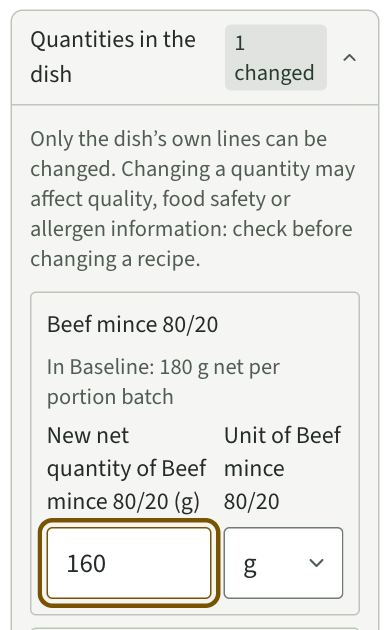
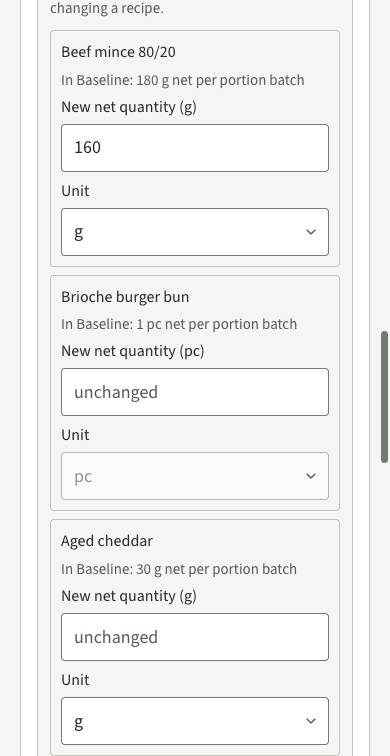
Polish simulator quantity fields

diff --git a/src/ui/help/content.ru.ts b/src/ui/help/content.ru.ts
@@ -647,7 +647,7 @@ export const contentRu: HelpDocument = {
             { text: ['Снова нажмите ', b('Add scenario'), '.'], result: ['Появится второй сценарий, B. Он выбран, его карточка слева. Под ', b('Choose a scenario to compare'), ' можно переключаться между A и B.'] },
             { text: ['В карточке сценария B нажмите полосу ', b('Quantities in the dish'), ' (Количества в блюде).'], result: 'Полоса раскроется и покажет поле для каждой строки блюда с ингредиентом. Строку-заготовку здесь менять нельзя.' },
             {
-              text: ['Найдите ', b('Beef mince 80/20'), ' и напечатайте 160 в поле ', b('New net quantity of Beef mince 80/20 (g)'), '. Единица остаётся g.'],
+              text: ['Найдите ', b('Beef mince 80/20'), ' и напечатайте 160 в поле ', b('New net quantity (g)'), '. В списке ', b('Unit'), ' оставьте g.'],
               result: 'Поля, которые вы оставили пустыми, показывают «unchanged» (без изменений). На полосе появится метка «1 changed». Вклад станет €7.49 (+€0.34).',
               image: img('simulator-qty', 'Раскрытая полоса Quantities in the dish: в поле New net quantity для Beef mince 80/20 напечатано 160.', 'Меняются только те поля, которые вы заполнили.'),
             },
@@ -730,7 +730,7 @@ export const contentRu: HelpDocument = {
             { message: 'Baseline changed since this scenario was saved', meaning: ['Цены или рецепт изменились после сохранения. Нажмите ', b('Update baseline'), ', чтобы посчитать по сегодняшним данным.'] },
             { message: 'Baseline updated. Some changes no longer apply and were removed (save to keep this):', meaning: ['После обновления одно из ваших изменений перестало подходить (например, ингредиент убрали из рецепта). Нажмите ', b('OK'), ', проверьте цифры и сохраните, если согласны.'] },
             { message: 'Not enough data to compare monthly results.', meaning: ['Таблице нужно хотя бы два столбца с месячной суммой. Напечатайте число в ', b('Expected sales per month (your estimate)'), ' и проверьте, что нет недостающих цен, либо нажмите ', b('Update baseline'), ' у сценария с пометкой «older prices».'] },
-            { message: 'Enter your estimate (0 if you do not want a monthly figure).', meaning: ['У блюда есть продажи в месяц, поэтому поле нельзя оставить пустым. Напечатайте число или 0. Обратите внимание: 0 означает, что вы ожидаете нулевые продажи. Месячные суммы станут нулевыми, а не исчезнут.'] },
+            { message: 'Enter your estimate. Enter 0 for no sales.', meaning: ['У блюда есть продажи в месяц, поэтому поле нельзя оставить пустым. Напечатайте число или 0. Обратите внимание: 0 означает, что вы ожидаете нулевые продажи. Месячные суммы станут нулевыми, а не исчезнут.'] },
             { message: 'Enter a whole number of 0 or more, for example 300.', meaning: ['В поле продаж в месяц напечатайте целое число, например 300, без слов и единиц.'] },
           ],
         },

diff --git a/src/ui/help/content.nl.ts b/src/ui/help/content.nl.ts
@@ -644,7 +644,7 @@ export const contentNl: HelpDocument = {
             { text: ['Klik nog eens op ', b('Scenario toevoegen'), '.'], result: ['Een tweede scenario, B, verschijnt. Het is gekozen en de kaart ervan staat links. Onder ', b('Kies een scenario om te vergelijken'), ' wissel je tussen A en B.'] },
             { text: ['Klik in de kaart van Scenario B op de balk ', b('Hoeveelheden in het gerecht'), '.'], result: 'De balk opent en toont een veld voor elke ingrediëntregel van het gerecht. Een regel die een basisrecept is, kun je hier niet wijzigen.' },
             {
-              text: ['Zoek ', b('Rundergehakt 80/20'), ' en typ 160 in ', b('Nieuwe nettohoeveelheid van Rundergehakt 80/20 (g)'), '. De eenheid blijft g.'],
+              text: ['Zoek ', b('Rundergehakt 80/20'), ' en typ 160 in ', b('Nieuwe nettohoeveelheid (g)'), '. Laat ', b('Eenheid'), ' op g staan.'],
               result: 'Velden die je leeg laat, zeggen “ongewijzigd”. Op de balk verschijnt een klein label “1 gewijzigd”. De bijdrage wordt € 7,49 (+€ 0,34).',
               image: img('simulator-qty', 'De geopende balk Hoeveelheden in het gerecht met het veld Nieuwe nettohoeveelheid ingevuld met 160 voor Rundergehakt 80/20.', 'Alleen de velden die je invult, worden gewijzigd.'),
             },
@@ -727,7 +727,7 @@ export const contentNl: HelpDocument = {
             { message: 'De huidige situatie is veranderd sinds je dit scenario opsloeg', meaning: ['Prijzen of het recept zijn veranderd nadat je opsloeg. Klik op ', b('Huidige situatie bijwerken'), ' om met de gegevens van vandaag te rekenen.'] },
             { message: 'Huidige situatie bijgewerkt. Sommige wijzigingen gelden niet meer en zijn verwijderd (sla op om dit te bewaren):', meaning: ['Na de update paste een van je wijzigingen niet meer (bijvoorbeeld omdat een ingrediënt uit het recept is gehaald). Klik op ', b('OK'), ', controleer de getallen en sla op als je het ermee eens bent.'] },
             { message: 'Niet genoeg gegevens om maandresultaten te vergelijken.', meaning: ['De tabel heeft minstens twee kolommen met een maandbedrag nodig. Typ een getal in ', b('Verkocht per maand (jouw schatting)'), ' en zorg dat er geen prijs ontbreekt, of druk op ', b('Huidige situatie bijwerken'), ' bij een scenario met “oudere prijzen”.'] },
-            { message: 'Vul je schatting in (0 als je geen maandbedrag wilt).', meaning: ['Het gerecht heeft een aantal per maand, dus het veld mag niet leeg blijven. Typ een getal, of 0. Let op: 0 betekent dat je geen verkopen verwacht. De maandbedragen worden dan nul; ze verdwijnen niet.'] },
+            { message: 'Vul je schatting in. Vul 0 in als je geen verkopen verwacht.', meaning: ['Het gerecht heeft een aantal per maand, dus het veld mag niet leeg blijven. Typ een getal, of 0. Let op: 0 betekent dat je geen verkopen verwacht. De maandbedragen worden dan nul; ze verdwijnen niet.'] },
             { message: 'Vul een geheel getal van 0 of meer in, bijvoorbeeld 300.', meaning: ['Typ in het veld voor de verkoop per maand een heel getal zoals 300, zonder woorden of eenheid.'] },
           ],
         },

diff --git a/src/ui/simulator/ScenarioCard.tsx b/src/ui/simulator/ScenarioCard.tsx
@@ -12,7 +12,7 @@ import {
   dishLines, ingredientInfos, type IngredientInfo, type LineInfo, type Run, type ScenarioDelta,
 } from '@/ui/domain/simulator';
 import type { SimulateResult } from '@/ui/domain/types';
-import { centsToInput, formatQuantity, parseMoneyField, unitsFor, type EnteredUnit } from '@/ui/forms/numbers';
+import { centsToInput, formatQuantity, localizedUnit, parseMoneyField, unitsFor, type EnteredUnit } from '@/ui/forms/numbers';
 import { useFocusFirstInvalid } from '@/ui/hooks/useFocusFirstInvalid';
 import { Delta } from './format';
 import {
@@ -111,7 +111,7 @@ function LineRow({ line, draft, error, onChange }: {
   line: LineInfo; draft: { text: string; unit: EnteredUnit } | undefined; error: FormErrorKey | undefined;
   onChange: (next: { text: string; unit: EnteredUnit }) => void;
 }) {
-  const { t } = useLocale();
+  const { t, locale } = useLocale();
   if (line.refKind === 'prep') {
     return (
       <li className="rounded-md border border-dashed p-2.5 text-xs text-muted-foreground">
@@ -122,25 +122,28 @@ function LineRow({ line, draft, error, onChange }: {
   }
   const units = unitsFor(line.unit);
   const value = draft ?? { text: '', unit: units[0] ?? 'g' };
+  const baseUnitLabel = localizedUnit(line.unit, locale);
   return (
     <li>
       <div role="group" aria-label={t('simulator.quantityOf', { name: line.name })} className="space-y-1.5 rounded-md border p-2.5">
         <p className="text-sm font-medium">{line.name}</p>
         <p className="text-xs text-muted-foreground">{t('simulator.inBaseline', { quantity: formatQuantity(line.netQtyMilli, line.unit) })}</p>
-        <div className="grid grid-cols-[minmax(0,1fr)_5rem] items-start gap-2">
-          <QuantityField label={t('simulator.newQuantity', { name: line.name })} unit={value.unit}
+        <div className="grid grid-cols-1 items-start gap-2">
+          <QuantityField label={t('simulator.newQuantity')} unit={baseUnitLabel}
+            aria-label={t('simulator.newQuantityOf', { name: line.name, unit: baseUnitLabel })}
             error={error ? t(error) : undefined} autoComplete="off" value={value.text}
             placeholder={t('simulator.unchanged')} onValueChange={text => onChange({ ...value, text })}
           />
-          <FormField label={t('simulator.unit', { name: line.name })}>
+          <FormField label={t('simulator.unit')}>
             {(control) => (
               <Select
                 {...control}
+                aria-label={t('simulator.unitOf', { name: line.name })}
                 value={value.unit}
                 disabled={units.length < 2}
                 onChange={(event) => onChange({ ...value, unit: event.target.value as EnteredUnit })}
               >
-                {units.map((unit) => <option key={unit} value={unit}>{unit}</option>)}
+                {units.map((unit) => <option key={unit} value={unit}>{localizedUnit(unit, locale)}</option>)}
               </Select>
             )}
           </FormField>

diff --git a/src/ui/help/content.en.ts b/src/ui/help/content.en.ts
@@ -644,7 +644,7 @@ export const contentEn: HelpDocument = {
             { text: ['Click ', b('Add scenario'), ' again.'], result: ['A second scenario, B, appears. It is chosen, and its card is on the left. Under ', b('Choose a scenario to compare'), ' you can switch between A and B.'] },
             { text: ['In the card of Scenario B click the bar ', b('Quantities in the dish'), '.'], result: 'The bar opens and shows a field for every ingredient line of the dish. A line that is a prep cannot be changed here.' },
             {
-              text: ['Find ', b('Beef mince 80/20'), ' and type 160 in ', b('New net quantity of Beef mince 80/20 (g)'), '. The unit stays g.'],
+              text: ['Find ', b('Beef mince 80/20'), ' and type 160 in ', b('New net quantity (g)'), '. Leave ', b('Unit'), ' set to g.'],
               result: 'Fields you leave empty say “unchanged”. A small mark “1 changed” appears on the bar. The contribution becomes €7.49 (+€0.34).',
               image: img('simulator-qty', 'The opened bar Quantities in the dish with the field New net quantity filled with 160 for Beef mince 80/20.', 'Only the fields you fill in are changed.'),
             },
@@ -727,7 +727,7 @@ export const contentEn: HelpDocument = {
             { message: 'Baseline changed since this scenario was saved', meaning: ['Prices or the recipe changed after you saved it. Click ', b('Update baseline'), ' to calculate on today’s data.'] },
             { message: 'Baseline updated. Some changes no longer apply and were removed (save to keep this):', meaning: ['After the update, one of your changes did not fit any more (for example an ingredient was removed from the recipe). Click ', b('OK'), ', check the numbers and save if you agree.'] },
             { message: 'Not enough data to compare monthly results.', meaning: ['The table needs at least two columns with a monthly figure. Type a number in ', b('Expected sales per month (your estimate)'), ' and make sure no price is missing, or press ', b('Update baseline'), ' on a scenario marked “older prices”.'] },
-            { message: 'Enter your estimate (0 if you do not want a monthly figure).', meaning: ['The dish has a monthly volume, so the field cannot be left empty. Type a number, or 0. Note: 0 means you expect no sales. Monthly amounts become zero; they are not hidden.'] },
+            { message: 'Enter your estimate. Enter 0 for no sales.', meaning: ['The dish has a monthly volume, so the field cannot be left empty. Type a number, or 0. Note: 0 means you expect no sales. Monthly amounts become zero; they are not hidden.'] },
             { message: 'Enter a whole number of 0 or more, for example 300.', meaning: ['In the field for sales per month, type a whole number such as 300, without words or a unit.'] },
           ],
         },

diff --git a/test/ui/simulator.test.tsx b/test/ui/simulator.test.tsx
@@ -121,6 +121,15 @@ describe('Baseline', () => {
     await typeInto(u, volume, '');
     expect(screen.getByText(/Enter your estimate/)).toBeTruthy();
   });
+
+  it('uses the revised estimate hint in English and Dutch', async () => {
+    const u = user();
+    await open(`#/simulator/${BURGER}`);
+    await typeInto(u, screen.getByLabelText('Expected sales per month (your estimate)'), '');
+    expect(screen.getByText('Enter your estimate. Enter 0 for no sales.')).toBeTruthy();
+    await u.click(screen.getByRole('button', { name: 'NL – Nederlands' }));
+    expect(screen.getByText('Vul je schatting in. Vul 0 in als je geen verkopen verwacht.')).toBeTruthy();
+  });
 });
 
 describe('Scenarios recalculate as calc does', () => {
@@ -145,12 +154,25 @@ describe('Scenarios recalculate as calc does', () => {
     const u = user();
     await open(`#/simulator/${BURGER}`);
     await addScenario(u);
-    await typeInto(u, scenario('A').getByLabelText(/New net quantity of Beef mince/), '160');
+    const quantityGroup = scenario('A').getByRole('group', { name: 'Quantity of Beef mince 80/20' });
+    expect(within(quantityGroup).getByText('New net quantity (g)')).toBeTruthy();
+    expect(within(quantityGroup).getByText('Unit')).toBeTruthy();
+    const quantity = within(quantityGroup).getByLabelText('New net quantity of Beef mince 80/20 (g)');
+    expect(quantity).toBeTruthy();
+    expect(within(quantityGroup).getByLabelText('Unit of Beef mince 80/20')).toBeTruthy();
+    expect(quantity.closest('div.flex.flex-col')?.parentElement?.className).toContain('grid-cols-1');
+    await typeInto(u, quantity, '160');
 
     const { result, delta } = expected({ lineQtyMilli: { l1: 160_000 } });
     expect(cell(/Recipe-based ingredient cost/, 1)).toContain(formatEURFromCents(result.ingredientCostCents as bigint));
     expect(cell(/Recipe-based ingredient cost/, 1)).toContain(formatEURFromCents(delta.ingredientCostDeltaCents as bigint));
     expect(cell(/Estimated monthly contribution/, 1)).toContain(`+${formatEURFromCents(delta.monthlyContributionDeltaCents as bigint)}`);
+
+    await u.click(screen.getByRole('button', { name: 'NL – Nederlands' }));
+    const bunGroup = scenario('A').getByRole('group', { name: 'Hoeveelheid van Brioche burger bun' });
+    expect(within(bunGroup).getByText('Nieuwe nettohoeveelheid (st.)')).toBeTruthy();
+    expect(within(bunGroup).getByLabelText('Nieuwe nettohoeveelheid van Brioche burger bun (st.)')).toBeTruthy();
+    expect(within(bunGroup).getByLabelText('Eenheid van Brioche burger bun')).toBeTruthy();
   });
 
   it('a beef price back at €14 per kg lowers the cost by €0.54 (+€162.00 a month)', async () => {

diff --git a/src/ui/i18n/part2.nl.ts b/src/ui/i18n/part2.nl.ts
@@ -141,8 +141,10 @@ export const part2NL = {
   "simulator.prepQuantity": "Hier niet te wijzigen: pas de hoeveelheden van een basisrecept aan in het recept. De inkoopprijzen van de ingrediënten kun je hierboven wijzigen.",
   "simulator.quantityOf": "Hoeveelheid van {name}",
   "simulator.inBaseline": "In de huidige situatie: {quantity} netto per portiebatch",
-  "simulator.newQuantity": "Nieuwe nettohoeveelheid van {name}",
-  "simulator.unit": "Eenheid van {name}",
+  "simulator.newQuantity": "Nieuwe nettohoeveelheid",
+  "simulator.newQuantityOf": "Nieuwe nettohoeveelheid van {name} ({unit})",
+  "simulator.unit": "Eenheid",
+  "simulator.unitOf": "Eenheid van {name}",
   "simulator.unchanged": "ongewijzigd",
   "simulator.name": "Scenarionaam",
   "simulator.monthlyOwn": "Maandelijkse bijdrage (jouw schatting)",
@@ -183,7 +185,7 @@ export const part2NL = {
   "simulator.error.money": "Vul een bedrag van 0 of meer in met maximaal twee decimalen. Bijvoorbeeld: 13,83",
   "simulator.error.pack": "Vul een bedrag van 0 of meer in met maximaal twee decimalen. Bijvoorbeeld: 11,20",
   "simulator.error.volume": "Vul een geheel getal van 0 of meer in, bijvoorbeeld 300.",
-  "simulator.error.estimate": "Vul je schatting in (0 als je geen maandbedrag wilt).",
+  "simulator.error.estimate": "Vul je schatting in. Vul 0 in als je geen verkopen verwacht.",
   "simulator.error.quantity": "Vul een positieve hoeveelheid in met maximaal drie decimalen.",
   "simulator.error.zeroQuantity": "De hoeveelheid moet groter zijn dan 0.",
   "simulator.error.name": "Geef het scenario een naam.",

diff --git a/src/ui/i18n/part2.en.ts b/src/ui/i18n/part2.en.ts
@@ -141,8 +141,10 @@ export const part2EN = {
   "simulator.prepQuantity": "Not editable here: a prep’s own quantities are changed in the recipe. Change the prices of the ingredients inside it above.",
   "simulator.quantityOf": "Quantity of {name}",
   "simulator.inBaseline": "In Baseline: {quantity} net per portion batch",
-  "simulator.newQuantity": "New net quantity of {name}",
-  "simulator.unit": "Unit of {name}",
+  "simulator.newQuantity": "New net quantity",
+  "simulator.newQuantityOf": "New net quantity of {name} ({unit})",
+  "simulator.unit": "Unit",
+  "simulator.unitOf": "Unit of {name}",
   "simulator.unchanged": "unchanged",
   "simulator.name": "Scenario name",
   "simulator.monthlyOwn": "Monthly contribution (your estimate)",
@@ -183,7 +185,7 @@ export const part2EN = {
   "simulator.error.money": "Enter a non-negative amount with at most two decimal places. Example: 13.83",
   "simulator.error.pack": "Enter a non-negative amount with at most two decimal places. Example: 11.20",
   "simulator.error.volume": "Enter a whole number of 0 or more, for example 300.",
-  "simulator.error.estimate": "Enter your estimate (0 if you do not want a monthly figure).",
+  "simulator.error.estimate": "Enter your estimate. Enter 0 for no sales.",
   "simulator.error.quantity": "Enter a positive quantity with at most three decimal places.",
   "simulator.error.zeroQuantity": "The quantity must be more than 0.",
   "simulator.error.name": "Give the scenario a name.",
